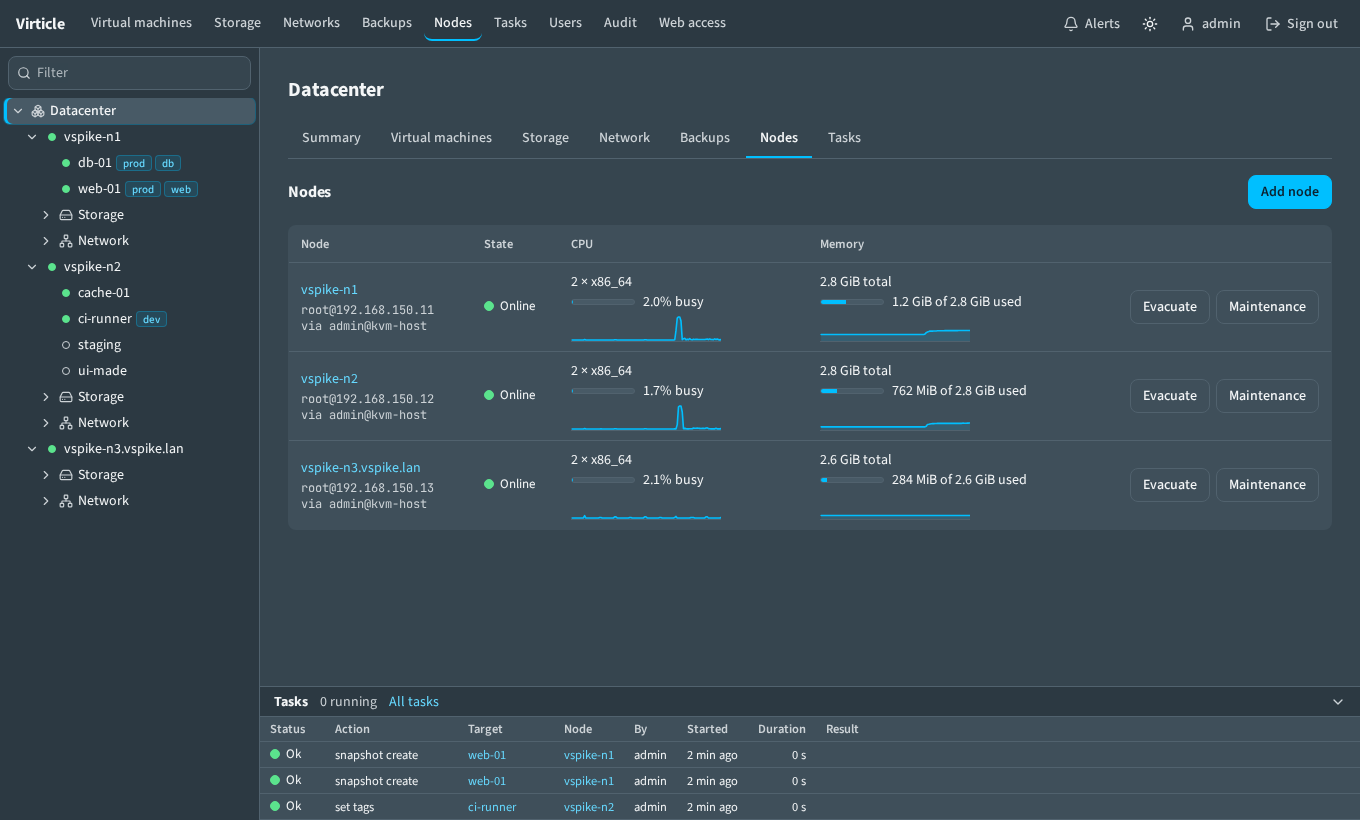
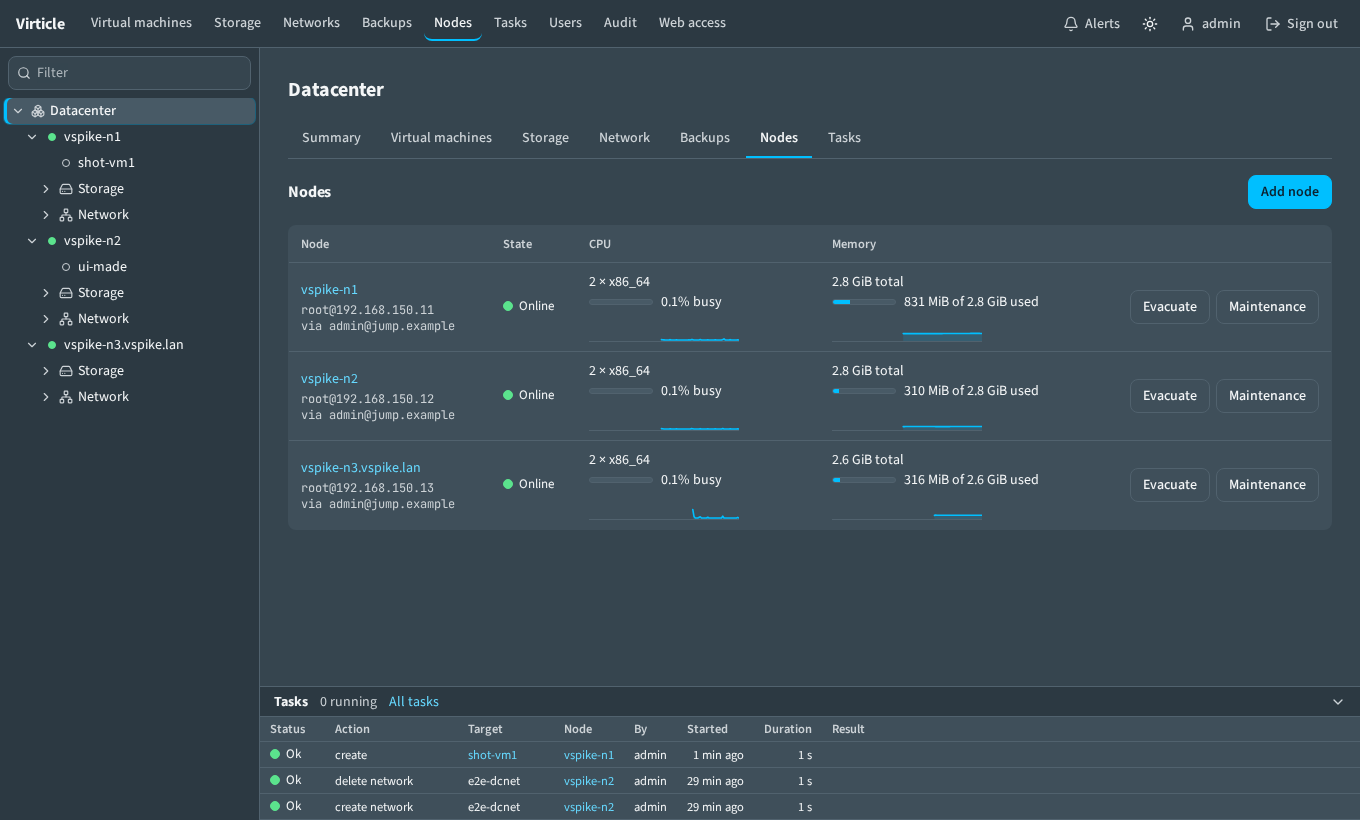
Docs: node command verified on the lab; retake three screenshots
ROADMAP: mark the node command and node-to-node transfer as verified on
Debian 13 nodes in both access modes, with the suite numbers and the
mixed-pair results; state what was not run. Remove the "not yet run in the
lab" line from the reference. Retake nodes, prepare-node and migrate images
with the jump host and key text replaced by placeholders.

diff --git a/ROADMAP.md b/ROADMAP.md
@@ -51,9 +51,9 @@ Status: `[x]` done and verified against the lab, `[~]` in progress, `[ ]` open.
 - [~] Virtual network editor: NAT, isolated, routed, open, bridged, DHCP reservations (done); VLAN tags only for Open vSwitch bridges, untested on real OVS
 
 ## Multi-node
-- [~] Node command and two ways to reach a node: Service account (sudo rule for the node command only) or Root. `virticle node prepare` installs it, upgrades it when the controller reports an older version, and `unprepare` removes it. Built and unit-tested; lab run pending (the earlier shell script version and its lab results predate this change)
-- [~] Direct node-to-node file transfer with a restricted node key (migration with local disks, restores on another node) and live migration coordinated by the controller, for any pair of Service account and Root nodes. Built, lab run pending
-- [x] Live migration with pre-flight checks (CPU, networks, free space, passthrough, name clashes, node-to-node path); UEFI and TPM guests verified before the node command replaced the shell script; re-run pending
+- [x] Node command and two ways to reach a node: Service account (sudo rule for the node command only) or Root. `virticle node prepare` installs it, upgrades it when the controller reports an older version, and `unprepare` removes it. Verified on the lab (Debian 13 nodes) in both access modes. Not run: Rocky nodes with the node command beyond prepare and detection, arm64 nodes; a real OVA import and real virt-sysprep through the node command were covered only by the browser suite where it covers them
+- [x] Direct node-to-node file transfer with a restricted node key (migration with local disks, restores on another node) and live migration coordinated by the controller, for any pair of Service account and Root nodes. Verified on the lab (Debian 13 nodes): a mixed pair (one Service account node, one Root node) passed offline migration both ways with identical checksums, live migration with disk copy, and backup with checksum and restore. During a live migration of a VM with a 1 GB disk and 512 MB memory the controller machine's total network traffic was under 0.5 MB
+- [x] Live migration with pre-flight checks (CPU, networks, free space, passthrough, name clashes, node-to-node path); UEFI and TPM guests verified before the node command replaced the shell script; the node command path was re-run on the lab (see above), UEFI and TPM guests were not re-tested
 - [x] Migration with disk copy; snapshot-preserving migration (external snapshots); source disk cleanup; cancel
 - [~] Offline migration (done, carries internal snapshots too); UEFI/NVRAM and TPM paths untested
 - [x] Encrypted migration streams (QEMU TLS for memory and disk mirror; controller-managed CA, per-node setup/removal, pre-flight warning when unencrypted). Certificate install verified on Debian and Rocky; an encrypted migration between two RHEL-family nodes is untested
@@ -71,7 +71,7 @@ Status: `[x]` done and verified against the lab, `[~]` in progress, `[ ]` open.
 - [x] Alerts: pool full, node down, host memory, failed scheduled job, VM crashed or paused on I/O error, certificate expiry; optional webhook (`-alert-webhook`)
 - [x] Resource tree (Datacenter → nodes → VMs, storage, networks, host NICs) with quick actions; node page with tabs (summary, VMs, storage, network, updates, settings)
 - [x] Theme from the user's DESIGN.md: dark by default, light option, bundled fonts, no animation. Idle cost measured: 0 running animations, at most one stats request per shown host every 5 s, none on pages without charts
-- [x] Browser suite (`make e2e`, 35 spec files with 217 `test(` declarations counted from the source; not re-run since the node command) including a no-ellipsis check and a fit check: no element cut off or spilling out of its card at 1280 and 1440 px, both themes, plus phone width
+- [x] Browser suite (`make e2e`, 35 spec files with 217 `test(` declarations counted from the source; re-run with the node command on Debian 13 nodes: 212 passed, 10 skipped with Service account nodes; 210 passed, 10 skipped with Root nodes) including a no-ellipsis check and a fit check: no element cut off or spilling out of its card at 1280 and 1440 px, both themes, plus phone width
 - [x] Move a disk to another pool: live (block copy and pivot) or offline, with pre-flight checks, progress and cancel. Verified on Debian and Rocky; not tested under guest writes; dir pools only tested
 - [x] Image catalogue: ten built-in cloud images, downloaded by the node and verified by checksum (same-origin checksum: catches corruption, not a compromised mirror); `<data>/images.json` adds or overrides entries
 - [x] Cloud-init profiles (stored in the controller database, passwords as hashes only), selectable when creating and cloning

diff --git a/docs/reference.md b/docs/reference.md
@@ -139,7 +139,6 @@ passwordless sudo but no node command is also not prepared.
   migration.
 - External snapshots could not be deleted on Debian nodes (AppArmor).
 - No high availability, no shared-storage features, no replication.
-- The node command and the two access modes are built and unit-tested but not yet run in the lab.
 - Not verified end to end: ACME issuance, the systemd service, arm64. See
   `ROADMAP.md`.
 
